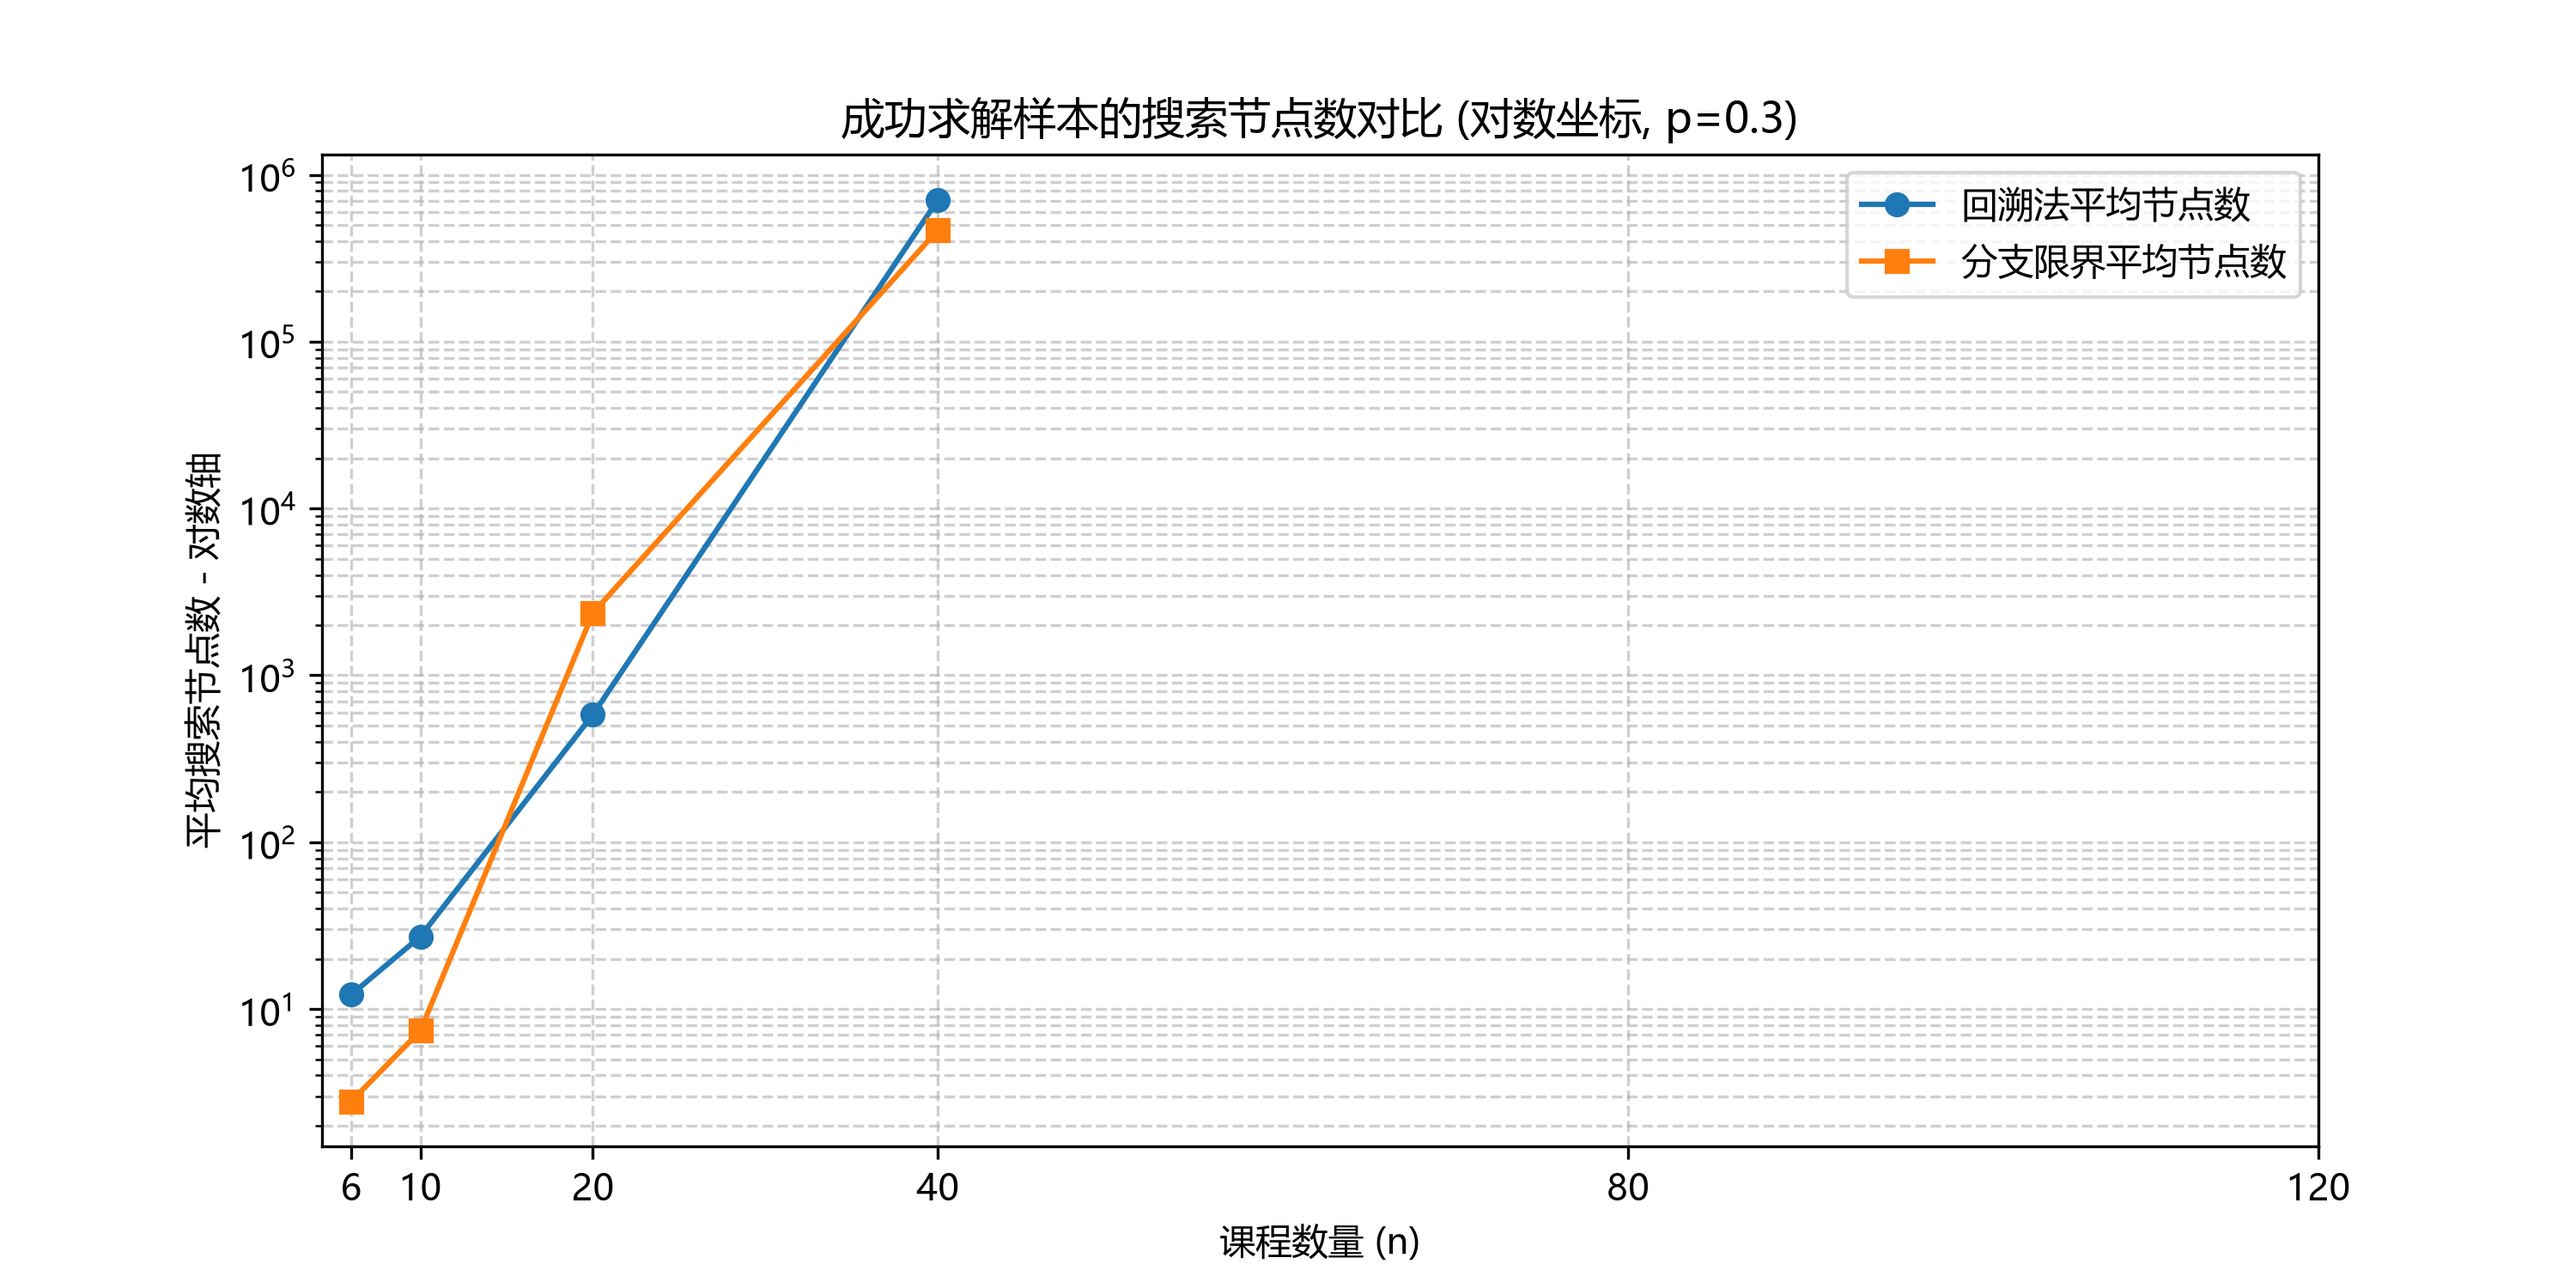
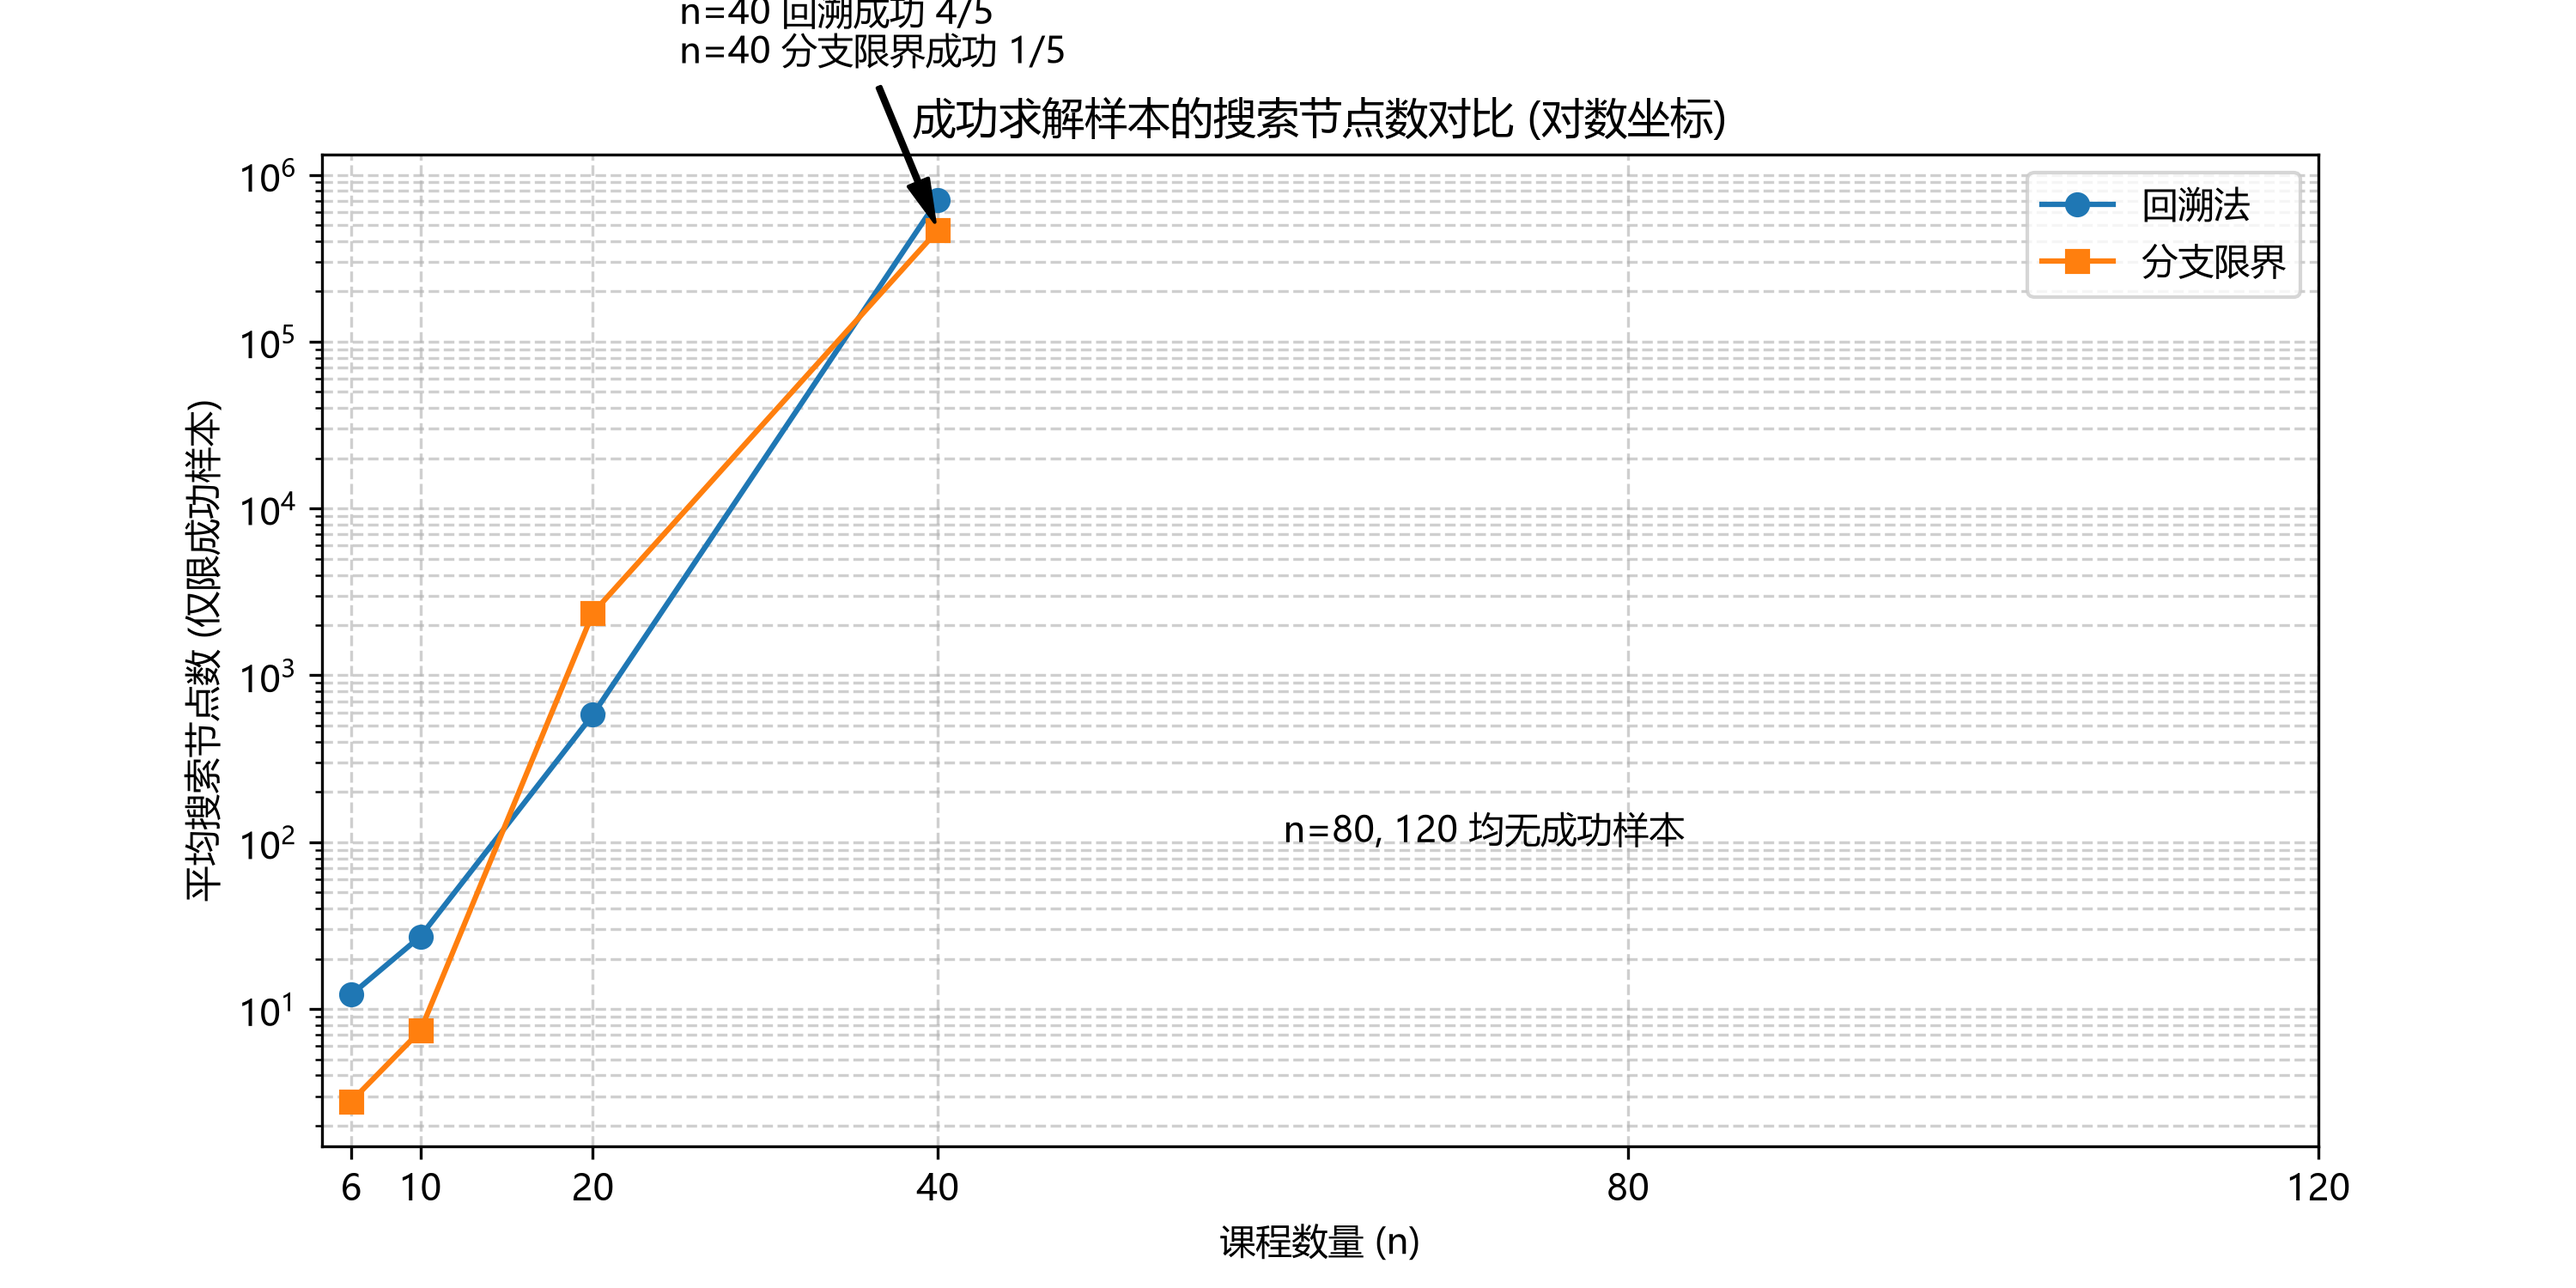
docs: 完善README实验说明，补充边界测试断言，修正图表标注防误解

diff --git a/experiments/plot.py b/experiments/plot.py
@@ -6,25 +6,28 @@ plt.rcParams['font.sans-serif'] = ['Microsoft YaHei', 'SimHei', 'sans-serif']
 plt.rcParams['axes.unicode_minus'] = False
 
 data = {}
+# 记录成功次数，用于在图表上标注
+success_counts = {'backtrack': {}, 'bnb': {}}
 
 with open("report/results_raw.csv", encoding="utf-8") as f:
     for row in csv.DictReader(f):
         n, method = int(row["Size"]), row["Method"]
         if n not in data:
             data[n] = {'backtrack': {'times': [], 'nodes': []}, 'bnb': {'times': [], 'nodes': []}}
+            success_counts['backtrack'][n] = 0
+            success_counts['bnb'][n] = 0
 
         t = float(row["Time(s)"])
         nodes = int(row["Nodes"])
 
-        # 耗时：把正常和超时（=30）分开记录
         if t < 30.0:
             data[n][method]['times'].append(t)
         else:
             data[n][method]['times'].append(30.0)
 
-        # 节点：只记录真正跑出来的节点数
         if nodes != -1:
             data[n][method]['nodes'].append(nodes)
+            success_counts[method][n] += 1
 
 sizes = sorted(data.keys())
 
@@ -33,11 +36,12 @@ bt_t = [statistics.mean(data[n]['backtrack']['times']) for n in sizes]
 bnb_t = [statistics.mean(data[n]['bnb']['times']) for n in sizes]
 
 plt.figure(figsize=(10, 5))
-plt.plot(sizes, bt_t, marker='o', label='回溯法平均耗时')
-plt.plot(sizes, bnb_t, marker='s', label='分支限界平均耗时')
+plt.plot(sizes, bt_t, marker='o', label='回溯法')
+plt.plot(sizes, bnb_t, marker='s', label='分支限界')
 plt.yscale('log')
 plt.xticks(sizes)
-plt.title("算法平均耗时对比 (对数坐标, p=0.3, 上限30s)")
+# 【修复】修改标题
+plt.title("算法耗时对比 (30秒截尾平均耗时, 超时按30s计入)")
 plt.xlabel("课程数量 (n)")
 plt.ylabel("平均耗时 (秒) - 对数轴")
 plt.grid(True, linestyle='--', alpha=0.6, which='both')
@@ -45,7 +49,7 @@ plt.legend()
 plt.savefig("report/time_compare.png", dpi=300)
 plt.show()
 
-# ---------- 图2：节点数对比（仅看成功样本） ----------
+# ---------- 图2：节点数对比 ----------
 bt_n, bnb_n = [], []
 for n in sizes:
     bt_valid = data[n]['backtrack']['nodes']
@@ -54,20 +58,30 @@ for n in sizes:
     bnb_n.append(statistics.mean(bnb_valid) if bnb_valid else None)
 
 plt.figure(figsize=(10, 5))
-# 只画有成功样本的点
 valid_bt_x = [sizes[i] for i in range(len(sizes)) if bt_n[i] is not None]
 valid_bt_y = [v for v in bt_n if v is not None]
 valid_bnb_x = [sizes[i] for i in range(len(sizes)) if bnb_n[i] is not None]
 valid_bnb_y = [v for v in bnb_n if v is not None]
 
-plt.plot(valid_bt_x, valid_bt_y, marker='o', label='回溯法平均节点数')
-plt.plot(valid_bnb_x, valid_bnb_y, marker='s', label='分支限界平均节点数')
+plt.plot(valid_bt_x, valid_bt_y, marker='o', label='回溯法')
+plt.plot(valid_bnb_x, valid_bnb_y, marker='s', label='分支限界')
 
 plt.yscale('log')
 plt.xticks(sizes)
-plt.title("成功求解样本的搜索节点数对比 (对数坐标, p=0.3)")
+plt.title("成功求解样本的搜索节点数对比 (对数坐标)")
 plt.xlabel("课程数量 (n)")
-plt.ylabel("平均搜索节点数 - 对数轴")
+plt.ylabel("平均搜索节点数 (仅限成功样本)")
+
+# 【修复】在图上添加文本标注成功率
+if 40 in success_counts['backtrack']:
+    bt_40 = success_counts['backtrack'][40]
+    bnb_40 = success_counts['bnb'][40]
+    plt.annotate(f'n=40 回溯成功 {bt_40}/5\nn=40 分支限界成功 {bnb_40}/5',
+                 xy=(40, valid_bnb_y[-1]), xytext=(25, valid_bnb_y[-1] * 10),
+                 arrowprops=dict(facecolor='black', shrink=0.05, width=1, headwidth=6))
+
+plt.annotate('n=80, 120 均无成功样本', xy=(80, 10), xytext=(60, 100))
+
 plt.grid(True, linestyle='--', alpha=0.6, which='both')
 plt.legend()
 plt.savefig("report/nodes_compare.png", dpi=300)

diff --git a/src/test_edge.py b/src/test_edge.py
@@ -16,6 +16,10 @@ def run_test(filename, expected_K, desc):
     K2, sol2, _, _, _ = color_bnb(G)
     v2 = verify_coloring(n, edges, sol2)
 
+    # 【修复】加入断言，测试失败直接报错
+    assert K1 == expected_K and v1, f"回溯法失败: K={K1}, 预期={expected_K}, 合法={v1}"
+    assert K2 == expected_K and v2, f"分支限界失败: K={K2}, 预期={expected_K}, 合法={v2}"
+
     print(f"[{desc}]")
     print(f"  回溯法: K={K1} (预期{expected_K}), 合法={v1}")
     print(f"  分支限界: K={K2} (预期{expected_K}), 合法={v2}")
@@ -26,16 +30,19 @@ def test_invalid():
     n, edges = read_graph("data/toy6.txt")
     bad_sol = [0, 0, 0, 0, 0, 0]  # 全部安排在同一段，绝对非法
     is_valid = verify_coloring(n, edges, bad_sol)
+
+    # 【修复】加入断言
+    assert not is_valid, "非法方案校验失败：verify_coloring 居然返回了 True"
+
     print(f"[非法方案校验] 预期 False, 实际 {is_valid} -> {'✅ 通过' if not is_valid else '❌ 失败'}")
 
 
 if __name__ == "__main__":
     print("开始边界用例测试...\n")
-    # 你需要自己在 data 下建一个 isolated.txt，内容为： 3 1 \n 0 1
     run_test("data/toy6.txt", 3, "题目Toy6")
     run_test("data/empty.txt", 1, "空图 (无冲突)")
     run_test("data/complete5.txt", 5, "完全图 K5")
     run_test("data/bipartite.txt", 2, "二部图")
-    # 如果你没建 isolated.txt，就把下面这行注释掉
-    # run_test("data/isolated.txt", 2, "含孤立顶点图")
+    run_test("data/isolated.txt", 2, "含孤立顶点图")  # 【修复】取消注释
     test_invalid()
+    print("\n✅ 所有边界测试完美通过！")

diff --git a/README.md b/README.md
@@ -1,10 +1,30 @@
 # 高校期末考试排考优化 (Exam Scheduling Optimization)
 
 ## 项目简介
-本项目将高校期末考试排考问题抽象为**图着色问题 (Graph Coloring)**，使用**贪心算法**求上界，并使用**回溯法 (Backtracking)** 和 **分支限界法 (Branch and Bound)** 求解最少考试时间段与合法的排考方案。项目包含完整的数据集、正确的算法实现、严谨的实验对比与可视化功能。
+本项目将排考问题抽象为图着色问题，使用贪心算法求上界，并使用回溯法与分支限界法求解最少时间段及合法排考方案。
 
 ## 环境依赖
 - Python 3.8+
-- 安装依赖包：
-  ```bash
-  pip install -r requirements.txt
+- 安装依赖：`pip install -r requirements.txt`
+
+## 运行说明
+请在项目根目录下运行以下命令：
+
+1. **运行主程序** (测试数据):
+   `python main.py data/toy6.txt --algo all`
+2. **边界测试** (包含Toy6、空图、完全图、二部图、含孤立点、非法方案校验):
+   `python -m src.test_edge`
+3. **生成可视化排考日历**:
+   `python -m src.visualize`
+4. **批量实验与绘图**:
+   `python -m experiments.run_all`
+   `python -m experiments.plot`
+
+## 数据与实验说明
+- **数据格式**：第一行 `n m` (课程数 和 冲突边数)，随后是 `m` 条边。
+- **随机图实验设定**：边概率 \(p=0.3\)；每个规模测试 5 张图；固定随机种子为 `Run_ID * 100 + n`。
+- **超时机制**：统一设置 30 秒超时上限。CSV 中 `Nodes=-1` 代表超时。
+- **统计口径**：
+  - 耗时为包含所有运行（超时按 30s 截尾计入）的平均值。
+  - 节点均值为**仅限成功样本**（`Nodes != -1`）的平均值。
+  - 回溯法节点指**递归调用总次数**（累计尝试所有K）；分支限界节点指**出堆扩展次数**。
